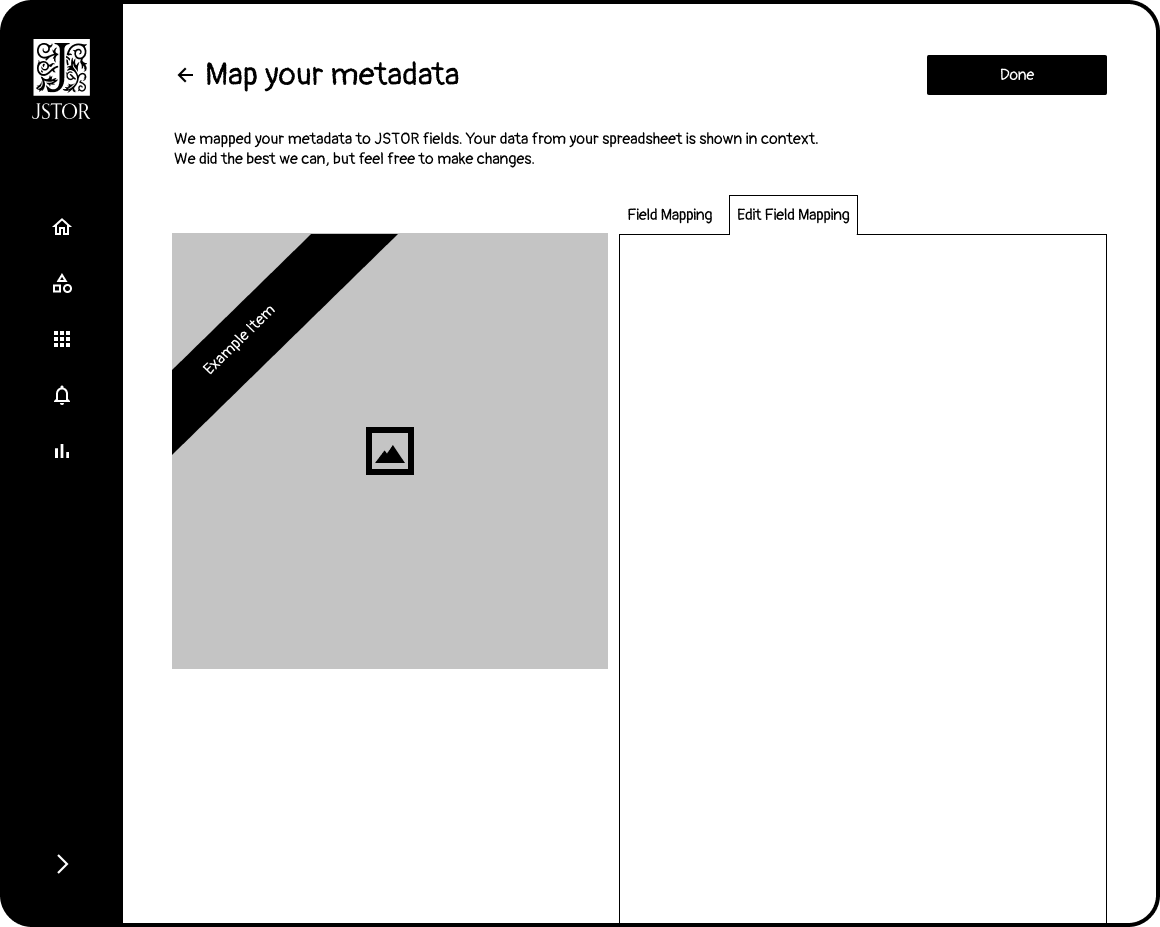
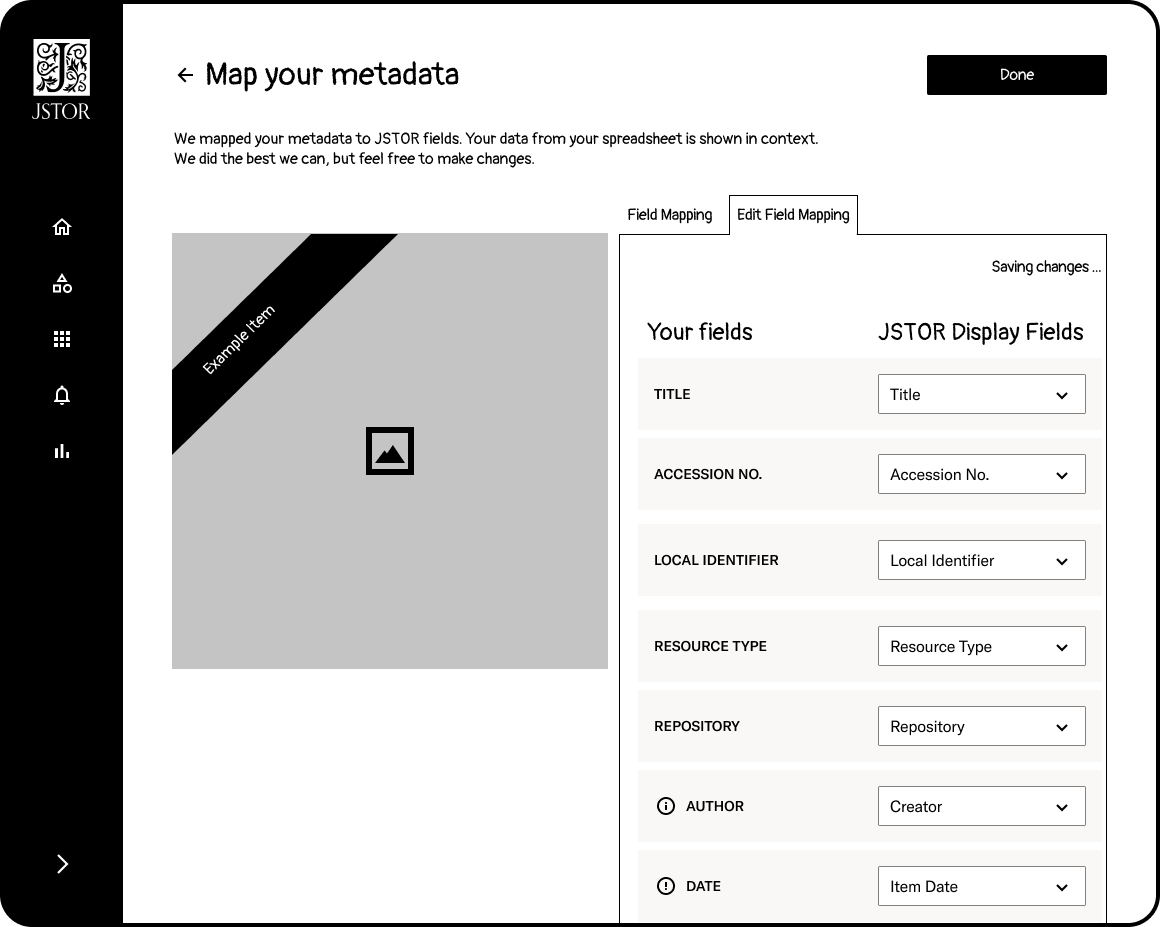
updated images

diff --git a/COLLECTION-LOADER.html b/COLLECTION-LOADER.html
@@ -104,15 +104,30 @@
     <p class="p-space">We began with low fidelity screen designs to encourage candid feedback and open the door for spontaneous suggestions. This approach prevented participants from assuming the designs were final.
     </p>
     <h3>Marketing Email</h3>
+ 
+    <div class="figure-container">
+        <figure class="figure">
+            <a href="https://matomaton.github.io/product/img/EMAIL-CONCEPT.png" target="_blank">
+        <img src="https://matomaton.github.io/product/img/EMAIL-CONCEPT.png" alt="A screenshot of the concept for a starting point based on a collection structure">
+        </a>
+        <figcaption>Concept email</figcaption>
+    </figure>
+    <figure class="figure">
+        <a href="https://matomaton.github.io/assets/MARKETING-EMAIL.png" target="_blank">
+        <img src="https://matomaton.github.io/assets/MARKETING-EMAIL.png" alt="A screenshot of the concept for a starting point based on a content and file types"></a>
+        <figcaption>Evolved email</figcaption>
+    </figure>
+    </div>
+ 
     <!-- FIGURES -->
-    <div class="full-width-container">
+    <!-- <div class="full-width-container">
         <figure class="full-width-figure">
             <a href="https://matomaton.github.io/assets/MARKETING-EMAIL.png" target="_blank">
         <img src="https://matomaton.github.io/assets/MARKETING-EMAIL.png" alt="A screenshot of the marketing email concept">
         </a>
         <figcaption>Marketing Email</figcaption>
     </figure>
-    </div>
+    </div> -->
     <p class="p-space">One of the crucial pieces to test was the marketing email.  I needed to provide a realistic preview of what our new product would produce to guage interest.  I curated a few collections to include in the ‘concept’ email and iterated on the types of collections we highlighted to show a breadth of examples.  This sole screen provided a wealth of  evidence and definitive direction.
     </p>
     <h3>The Starting Point</h3>

diff --git a/Design_Brief_Resume-Matcher.md b/Design_Brief_Resume-Matcher.md
@@ -1,0 +1,35 @@
+#Goal
+
+Develop a user-friendly tool that seamlessly analyzes and matches resumes with job descriptions across various formats. The tool will enable users to effortlessly upload their resumes and job descriptions, receive actionable feedback on keyword optimization, and generate a refined resume aligned with the specific job requirements.
+
+#Audience
+Initially tailored for individuals seeking employment in the technology sector, with the potential to expand its utility to a broader audience encompassing anyone in search of employment.
+
+#Problem statement
+As a job seeker, I want to a tool that will provide recommendations for my resume based on a job description so that I feel confident it will pass the applicant tracking system
+
+#Success
+Favorable reviews, user satisfaction during usability testing
+
+#Scoping
+Must have - simple drag and drop interface.  No need to install and run. Accessible web app
+Nice to have - multiple file formats, linking to google docs
+Don't do -
+
+#Guiding Principles
+Use status mechanisms to keep users aware and informed
+Use Active Discovery to guide people to more advanced features
+
+#Business Objective
+Need help here
+
+#Background
+Currently Resume Matcher is an AI Based Free & Open Source Tool. Not currently a web interface, need to fork and use python to run locally.
+#User research
+Has any research been done?
+Possiblities include surveys, interviews, usability testing.
+#Use Cases and Open questions
+Questions that we need answers for before we do design work?
+Are there any assumptions we're making in design that we should identify here?
+#Competitor/comparator
+https://www.jobscan.co/
